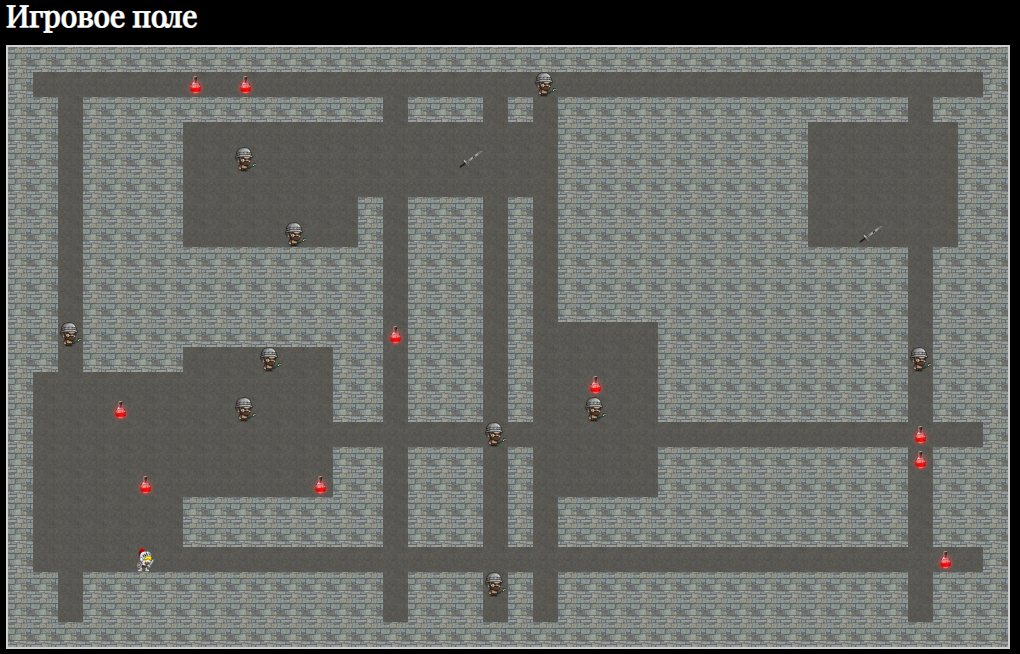
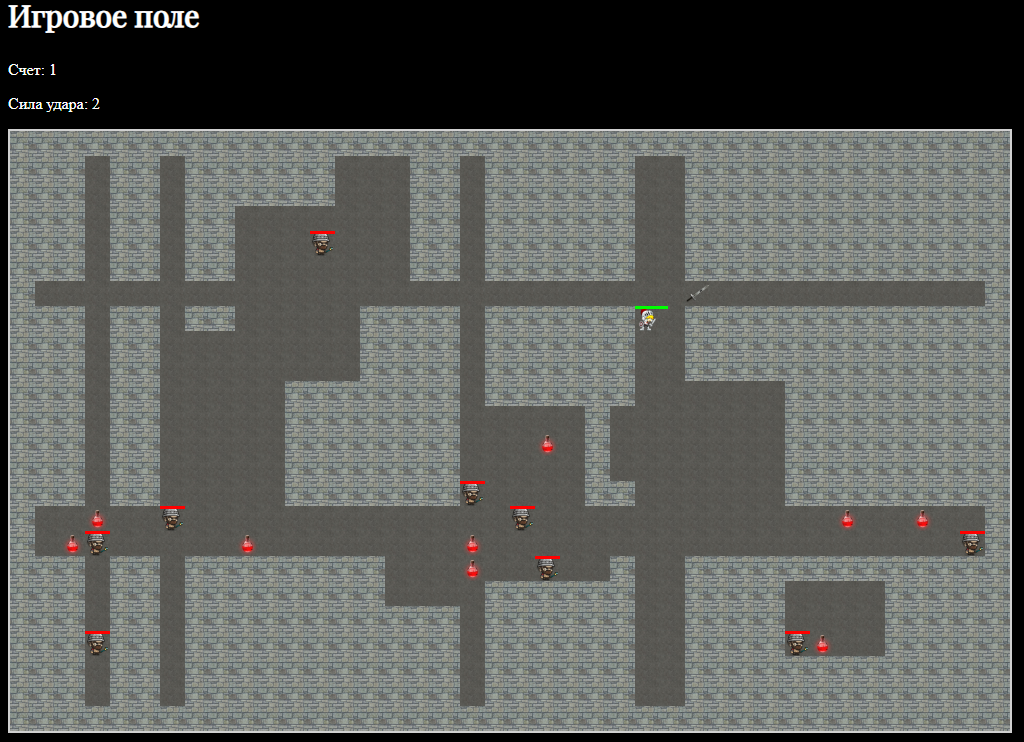
added information about strength and points and health scale, fixed errors

diff --git a/index.js b/index.js
@@ -2,8 +2,34 @@ class Game {
     constructor() {
         this.WIDTH = 40;
         this.HEIGHT = 24;
+        this.TILESIZE = 25;
 
-        this.map;
+        this.DIRECTIONS = [
+            { dx: 0, dy: -1 }, // вверх
+            { dx: 0, dy: 1 },  // вниз
+            { dx: -1, dy: 0 }, // влево
+            { dx: 1, dy: 0 }   // вправо
+        ];
+
+        //здоровье
+        this.MAXENEMYHEALTH = 3;
+        this.MAXHEROHEALTH = 3;
+
+        //сила атаки
+        this.MINHEROATTACKPOWER = 1;
+        this.ENEMIESATTACKPOWER = 1
+
+        //количество предметов
+        this.POTIONSCOUNT = 10
+        this.ENEMIESCOUNT = 10
+        this.SWORDSCOUNT = 2
+
+        //сила действия ,fajd
+        this.INCREASEATTACKPOWER = 1
+        this.INCREASEHEALTH = 1
+
+        this.enemyMoveInterval = null;
+        this.enemyMoveDelay = 500;
 
         // 0 - стена
         // 1 - пол
@@ -12,26 +38,17 @@ class Game {
         // 4 - герой
         // 5 - противник
 
-        this.enemies = [];
-
-        this.enemyMoveInterval = null;
-        this.enemyMoveDelay = 500;
-
-        this.directions = [
-            { dx: 0, dy: -1 }, // вверх
-            { dx: 0, dy: 1 },  // вниз
-            { dx: -1, dy: 0 }, // влево
-            { dx: 1, dy: 0 }   // вправо
-        ];
+        this.map;
 
         this.state = {
             hero: {
                 x: 0,
                 y: 0,
-                health: 10,
-                attackPower: 1
+                health: this.MAXHEROHEALTH,
+                attackPower: this.MINHEROATTACKPOWER
             },
             score: 0,
+            enemies: []
         };
     }
 
@@ -48,17 +65,17 @@ class Game {
     }
 
     attackHero(x, y) {
-        for (const dir of this.directions) {
+        for (const dir of this.DIRECTIONS) {
             const checkX = x + dir.dx;
             const checkY = y + dir.dy;
 
             if (checkX === this.state.hero.x && checkY === this.state.hero.y) {
-                this.state.hero.health -= 5;
+                this.state.hero.health -= this.ENEMIESATTACKPOWER;
 
                 if (this.state.hero.health <= 0) {
-                    this.state.hero.health = 0;
                     this.gameOver();
                 }
+                this.renderMap();
                 break;
             }
         }
@@ -66,11 +83,11 @@ class Game {
     }
 
     moveEnemies() {
-        for (let i = 0; i < this.enemies.length; i++) {
-            const enemy = this.enemies[i];
+        for (let i = 0; i < this.state.enemies.length; i++) {
+            const enemy = this.state.enemies[i];
             const possibleMoves = [];
 
-            for (const dir of this.directions) {
+            for (const dir of this.DIRECTIONS) {
                 const newX = enemy.x + dir.dx;
                 const newY = enemy.y + dir.dy;
 
@@ -119,10 +136,13 @@ class Game {
         }
 
         if (targetTile === 2) {
-            this.state.hero.attackPower += 1;
+            this.state.hero.attackPower += this.INCREASEATTACKPOWER;
+
+            const powerValueInfo = document.querySelector('.power-value')
+            powerValueInfo.innerHTML = this.state.hero.attackPower + ''
         }
         if (targetTile === 3) {
-            this.state.hero.health += 5
+            this.state.hero.health += this.INCREASEHEALTH
         }
 
         this.map[this.state.hero.y][this.state.hero.x] = 1;
@@ -134,8 +154,8 @@ class Game {
     }
 
     findEnemy(x, y) {
-        for (let i = 0; i < this.enemies.length; i++) {
-            if (this.enemies[i].x === x && this.enemies[i].y === y) {
+        for (let i = 0; i < this.state.enemies.length; i++) {
+            if (this.state.enemies[i].x === x && this.state.enemies[i].y === y) {
                 return i
             }
         }
@@ -144,31 +164,35 @@ class Game {
 
     removeEnemy(x, y) {
         const enemyIndex = this.findEnemy(x, y);
-        this.enemies.splice(enemyIndex, 1);
+        this.state.enemies.splice(enemyIndex, 1);
     }
 
     attack() {
-        //const heroTile = document.querySelector('.tileP')
-        //heroTile.style.backgroundImage = 'url(./images/tile-PA.png)'
-
-        this.directions.forEach(dir => {
+        this.DIRECTIONS.forEach(dir => {
             const targetX = this.state.hero.x + dir.dx;
             const targetY = this.state.hero.y + dir.dy;
 
-            if (this.map[targetY][targetX] === 5) {
-                this.map[targetY][targetX] = 1;
-                this.removeEnemy(targetX, targetY);
-                this.state.score += 1;
+            const targetEnemyIndex = this.findEnemy(targetX, targetY);
+
+            if (targetEnemyIndex !== -1) {
+                let enemy = this.state.enemies[targetEnemyIndex]
+                if (enemy.health - this.state.hero.attackPower <= 0) {
+                    this.map[targetY][targetX] = 1;
+                    this.removeEnemy(targetX, targetY);
+                    this.state.score += 1;
+
+                    const scoreValueInfo = document.querySelector('.score-value')
+                    scoreValueInfo.innerHTML = this.state.score + ''
+                }
+                else {
+                    enemy.health -= this.state.hero.attackPower
+                }
                 this.renderMap()
             }
         });
 
-        //setTimeout(() => {
-        //    heroTile.style.backgroundImage = 'url(./images/tile-P.png)';
-        //}, 500);
-
-        if (this.score.enemies == 0)
-            this.generateEnemies();
+        if (this.state.enemies.length === 0)
+            this.init();
     }
 
     initEventHandlers() {
@@ -273,8 +297,7 @@ class Game {
     }
 
     generateSwords() {
-        const count = 2;
-        for (let i = 0; i < count; i++) {
+        for (let i = 0; i < this.SWORDSCOUNT; i++) {
             const position = this.getRandomEmptyTile();
             if (position) {
                 this.map[position.y][position.x] = 2;
@@ -283,8 +306,7 @@ class Game {
     }
 
     generatePotions() {
-        const count = 10;
-        for (let i = 0; i < count; i++) {
+        for (let i = 0; i < this.POTIONSCOUNT; i++) {
             const position = this.getRandomEmptyTile();
             if (position) {
                 this.map[position.y][position.x] = 3;
@@ -302,12 +324,11 @@ class Game {
     }
 
     generateEnemies() {
-        const count = 10;
-        for (let i = 0; i < count; i++) {
+        for (let i = this.state.enemies.length; i < this.ENEMIESCOUNT; i++) {
             const position = this.getRandomEmptyTile();
             if (position) {
                 this.map[position.y][position.x] = 5;
-                this.enemies.push({ x: position.x, y: position.y });
+                this.state.enemies.push({ x: position.x, y: position.y, health: this.MAXENEMYHEALTH });
             }
         }
     }
@@ -326,20 +347,17 @@ class Game {
         const field = document.querySelector('.field');
         field.innerHTML = '';
 
-        const tileSize = 25;
-
         for (let y = 0; y < this.HEIGHT; y++) {
             for (let x = 0; x < this.WIDTH; x++) {
                 const tileValue = this.map[y][x];
                 const tile = document.createElement('div');
                 tile.classList.add('tile')
 
-                tile.style.top = y * tileSize + 'px'
-                tile.style.left = x * tileSize + 'px'
+                tile.style.top = y * this.TILESIZE + 'px'
+                tile.style.left = x * this.TILESIZE + 'px'
 
                 const health = document.createElement('div');
                 health.classList.add('health')
-                health.width = 25 + 'px'
 
                 switch (tileValue) {
                     case 0:
@@ -355,10 +373,14 @@ class Game {
                         break;
                     case 4:
                         tile.classList.add('tileP');
+                        health.style.width = (this.state.hero.health / this.MAXHEROHEALTH) * 100 + '%'
                         tile.appendChild(health);
                         break;
                     case 5:
                         tile.classList.add('tileE');
+                        const enemy = this.state.enemies[this.findEnemy(x, y)]
+
+                        health.style.width = (enemy.health / this.MAXENEMYHEALTH) * 100 + '%'
                         tile.appendChild(health);
                         break;
                 }

diff --git a/index.html b/index.html
@@ -120,6 +120,10 @@
 
 <body>
 	<h1>Игровое поле</h1>
+	<div class="game-stats">
+		<p class="score">Счет: <span class="score-value">0</span></p>
+		<p class="attack-power">Сила удара: <span class="power-value">1</span></p>
+	</div>
 	<div class="field-box">
 		<div class="field"></div>
 	</div>
